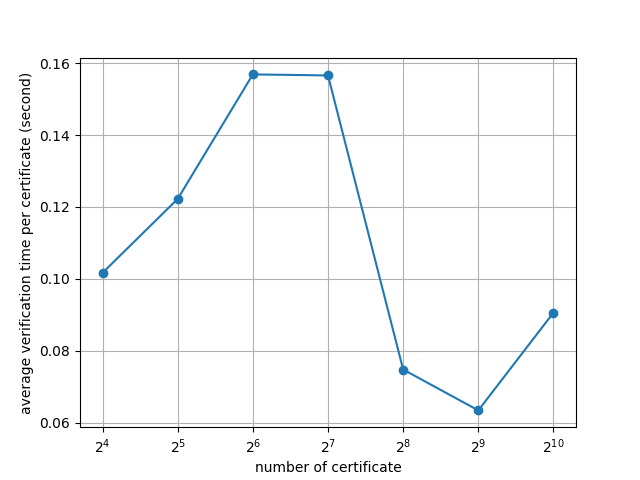
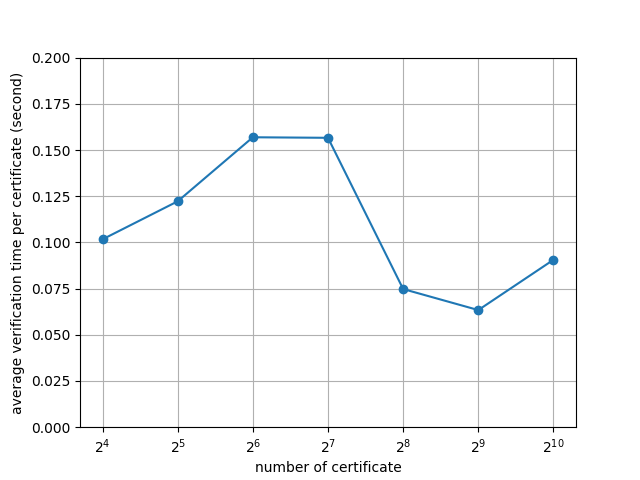
update verify diagram

diff --git a/plot.py b/plot.py
@@ -100,7 +100,7 @@ plt.ylabel("average verification time per certificate (second)")
 plt.xlabel("number of certificate")
 plt.plot(x, verify_time, '-o')
 plt.xscale('log', base=2)
-# plt.ylim((0, 0.1))
+plt.ylim((0, 0.2))
 plt.grid()
 plt.savefig(FOLDER_PATH + "/verify-time-diagram.png")
 plt.close()
